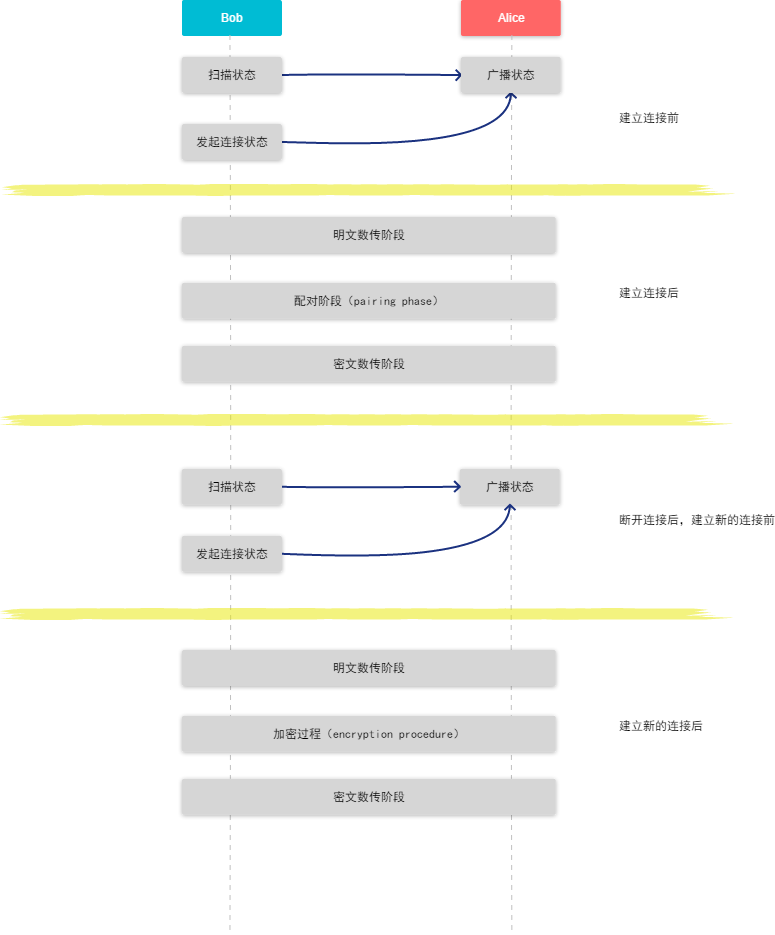
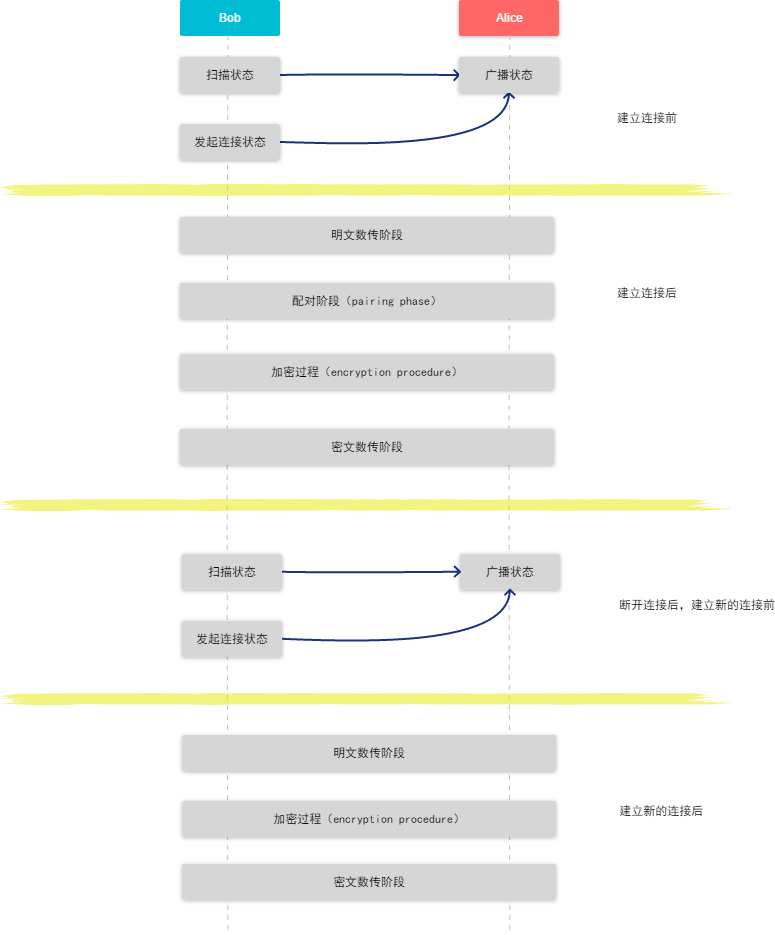
update sth

diff --git a/source/_posts/BLE安全机制从入门到放弃.md b/source/_posts/BLE安全机制从入门到放弃.md
@@ -245,7 +245,7 @@ MAC技术有一个重要性质：`单向性`，即<strong>给定MIC,很难通过
     - 一定是由主机发起连接，从机只能被连接。
 
 2. 建立连接后
-    - 一定是由主机发起配对，从机只能请求主机发起配对；
+    - 一定是由主机发起配对，但是从机能够请求主机发起配对；
 
 
 <div align=center>![](KindOfPhase.png)ble角色生命线
@@ -256,8 +256,9 @@ MAC技术有一个重要性质：`单向性`，即<strong>给定MIC,很难通过
 - 发起连接状态：设备指定与另外一个设备发起连接；
 - 明文数传阶段：两个已连接设备之间用明文传送数据包；
 - 配对阶段：两个已连接设备之间运用密码技术生成各种安全强度的密钥；
+- 加密过程：两个已连接设备之间使用配对阶段输出的密钥生成密文；
 - 密文数传阶段：两个已连接设备之间用密文传送数据包。
-- 加密过程：两个已连接设备之间直接使用之前配对阶段输出的密钥，跳过配对。
+
 
 除了展示两种角色的差异，博主还希望通过上图澄清几个概念：
 
